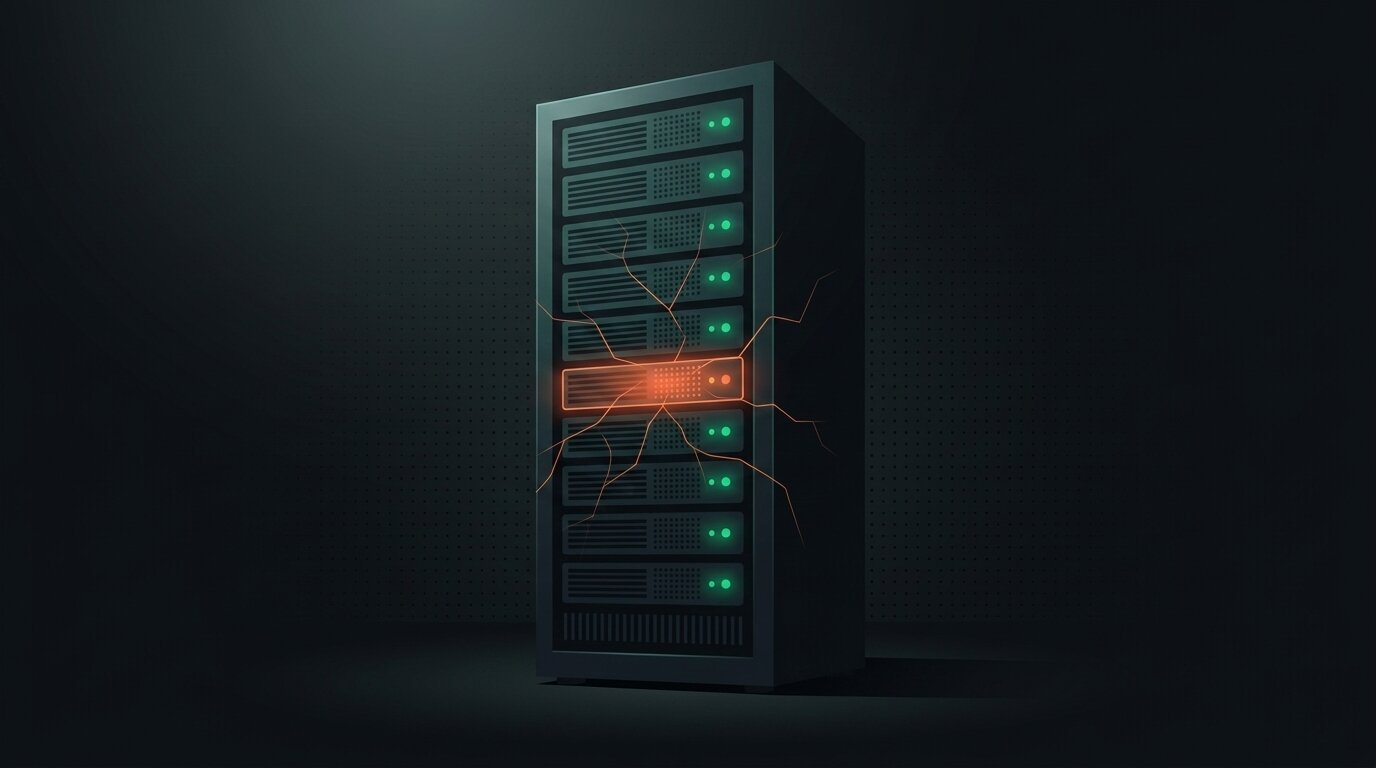
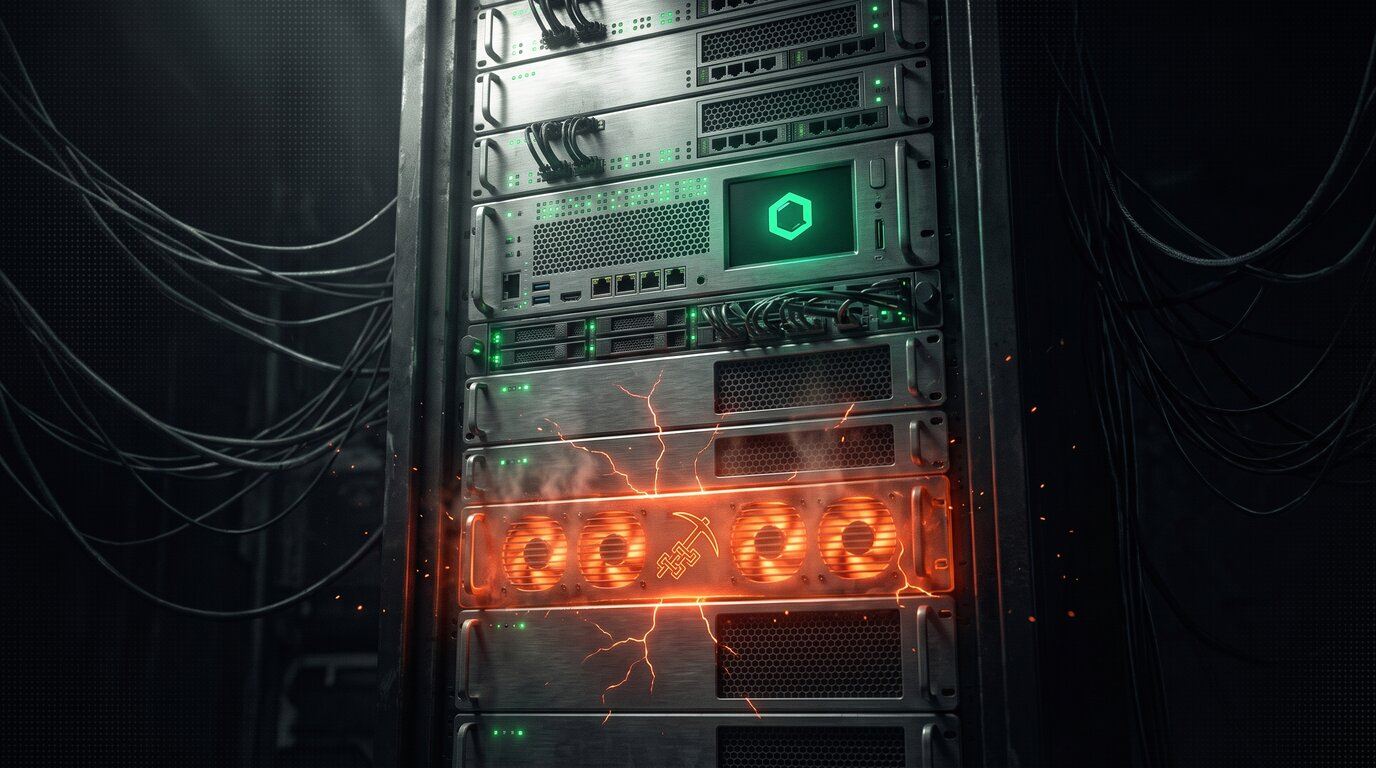
feat: regenerate four thought thumbnails

diff --git a/content/thoughts/ai-open-source-contributions/index.md b/content/thoughts/ai-open-source-contributions/index.md
@@ -3,7 +3,7 @@ title: I Fixed a Bug in a Library I'd Never Read Before
 date: 2026-03-05
 tags: [Open Source, AI, Tools]
 image: thumbnail.jpg
-imageCaption: Human intent, AI execution. Passing the fix between them.
+imageCaption: A machine I'd never opened, one broken gear, and AI holding the replacement.
 description: AI coding tools collapsed the barrier to contributing to open source. That's both the best and worst thing happening to maintainers right now.
 tldr: I contributed two features to bull-board without ever reading its codebase manually. Claude Code handled the exploration. This is happening everywhere now and it cuts both ways. More people can fix things in libraries they use daily. But maintainers are drowning in low-quality PRs from people who let AI write code they don't understand. The fix isn't banning AI. It's preparing codebases for it (AGENTS.md, clear contribution guides) and expecting contributors to verify what they submit.
 ---
